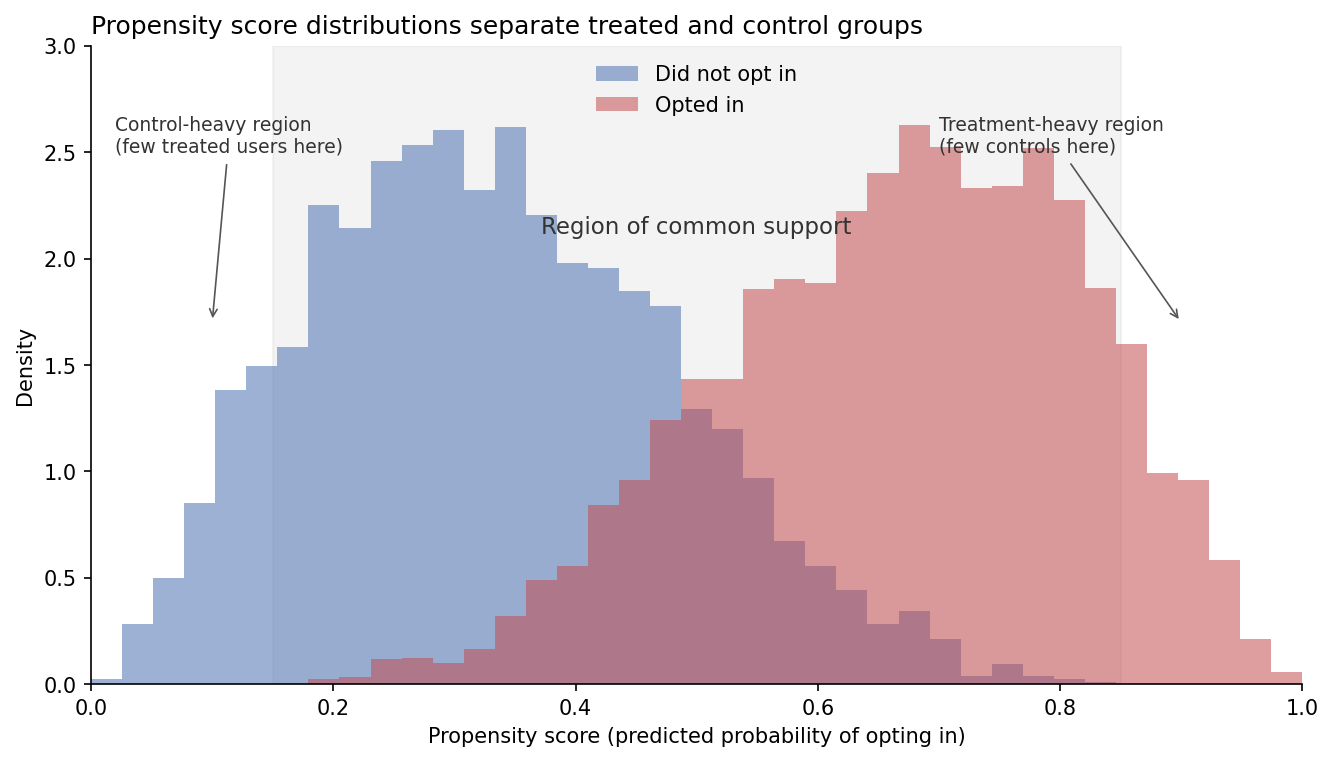
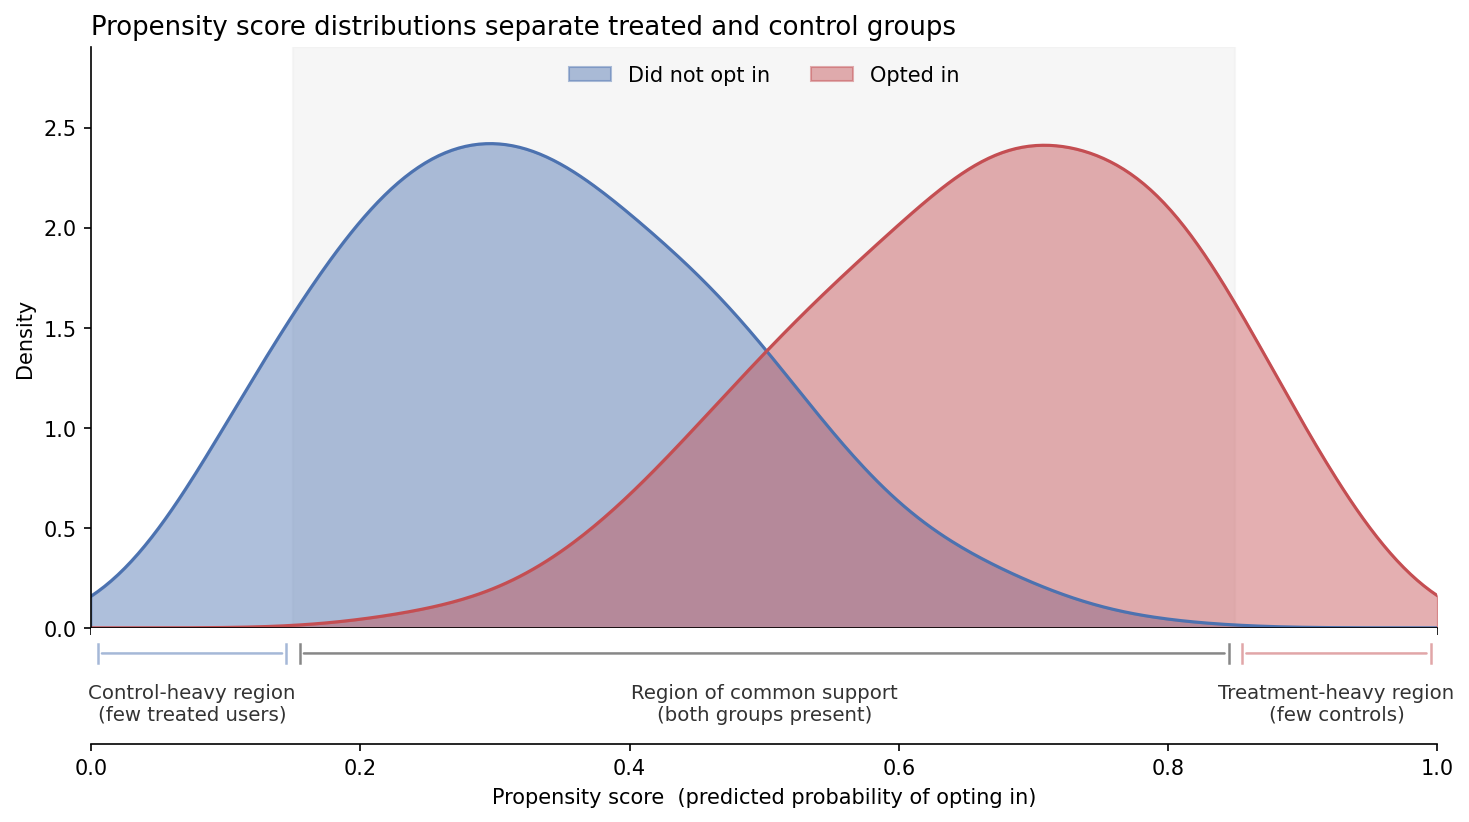
Improve Figure 1: KDE curves + region labels below x-axis
The previous conceptual figure had the 'Region of common support' label,
the two side annotations, and the legend all crammed into the same
upper-middle area, overlapping each other and sitting on top of the
histogram bars. The new version has zero overlap between text and data:

- Smooth KDE curves replace the jagged histogram (matches Figure 2's
  visual language)
- Legend centered at the top in empty sky, not inside the distributions
- Three region labels (control-heavy / common support / treatment-heavy)
  live in a dedicated strip below the x-axis with bracket markers, so
  they never compete with the density curves for space
- Common support shaded band kept, but without any overlapping text

Built by Rudrendu Paul

diff --git a/02_propensity_opt_in/generate_psm_charts.py b/02_propensity_opt_in/generate_psm_charts.py
@@ -24,52 +24,92 @@ IMAGES_DIR = REPO_ROOT / "images" / "article-2"
 
 
 def make_figure_1_conceptual() -> None:
-    """Conceptual: treated skews right, control skews left; overlap shaded."""
+    """Conceptual: treated skews right, control skews left; overlap shaded.
+
+    Two stacked panels with zero overlap between text and plot data:
+      (top)    smooth KDE curves with only a legend in the corner
+      (bottom) a narrow label strip under the x-axis with three region
+               brackets (control-heavy, common support, treatment-heavy)
+    """
+    from scipy.stats import gaussian_kde
+
     rng = np.random.default_rng(7)
     treated = np.clip(rng.beta(6, 3, size=5000), 0.02, 0.98)
     control = np.clip(rng.beta(3, 6, size=5000), 0.02, 0.98)
 
-    fig, ax = plt.subplots(figsize=(9.0, 5.2))
-    bins = np.linspace(0, 1, 40)
+    lo, hi = 0.15, 0.85  # common support region
+    control_color = "#4C72B0"
+    treated_color = "#C44E52"
 
-    ax.hist(
-        control, bins=bins, density=True, alpha=0.55,
-        color="#4C72B0", label="Did not opt in",
-    )
-    ax.hist(
-        treated, bins=bins, density=True, alpha=0.55,
-        color="#C44E52", label="Opted in",
+    fig, (ax_top, ax_bot) = plt.subplots(
+        nrows=2, ncols=1, figsize=(10.0, 5.6),
+        gridspec_kw={"height_ratios": [5.0, 1.0], "hspace": 0.0},
+        sharex=True,
     )
 
-    ax.axvspan(0.15, 0.85, color="#DDDDDD", alpha=0.35, zorder=0)
-    ax.text(
-        0.50, 2.15, "Region of common support",
-        ha="center", va="center", fontsize=11, color="#333333",
-    )
-    ax.annotate(
-        "Control-heavy region\n(few treated users here)",
-        xy=(0.10, 1.7), xytext=(0.02, 2.5),
-        fontsize=9, color="#333333",
-        arrowprops=dict(arrowstyle="->", color="#555555", lw=0.8),
-    )
-    ax.annotate(
-        "Treatment-heavy region\n(few controls here)",
-        xy=(0.90, 1.7), xytext=(0.70, 2.5),
-        fontsize=9, color="#333333",
-        arrowprops=dict(arrowstyle="->", color="#555555", lw=0.8),
-    )
+    # --- TOP: smooth KDE curves ---
+    grid = np.linspace(0, 1, 400)
+    dens_c = gaussian_kde(control, bw_method=0.35)(grid)
+    dens_t = gaussian_kde(treated, bw_method=0.35)(grid)
 
-    ax.set_xlabel("Propensity score (predicted probability of opting in)")
-    ax.set_ylabel("Density")
-    ax.set_title(
+    ax_top.fill_between(grid, dens_c, alpha=0.45, color=control_color,
+                        label="Did not opt in")
+    ax_top.fill_between(grid, dens_t, alpha=0.45, color=treated_color,
+                        label="Opted in")
+    ax_top.plot(grid, dens_c, color=control_color, lw=1.5)
+    ax_top.plot(grid, dens_t, color=treated_color, lw=1.5)
+    ax_top.axvspan(lo, hi, color="#EFEFEF", alpha=0.5, zorder=0)
+
+    y_top = max(dens_c.max(), dens_t.max()) * 1.20
+    ax_top.set_ylim(0, y_top)
+    ax_top.set_xlim(0, 1)
+    ax_top.set_ylabel("Density")
+    ax_top.set_title(
         "Propensity score distributions separate treated and control groups",
-        fontsize=12, loc="left",
+        fontsize=12.5, loc="left",
     )
-    ax.set_xlim(0, 1)
-    ax.set_ylim(0, 3.0)
-    ax.legend(frameon=False, loc="upper center")
-    ax.spines["top"].set_visible(False)
-    ax.spines["right"].set_visible(False)
+    ax_top.legend(frameon=False, loc="upper center", ncol=2,
+                  bbox_to_anchor=(0.5, 1.0), fontsize=10)
+    ax_top.spines["top"].set_visible(False)
+    ax_top.spines["right"].set_visible(False)
+    ax_top.tick_params(labelbottom=False)
+
+    # --- BOTTOM: region label strip ---
+    ax_bot.set_xlim(0, 1)
+    ax_bot.set_ylim(0, 1)
+    ax_bot.set_yticks([])
+    for side in ("top", "left", "right"):
+        ax_bot.spines[side].set_visible(False)
+    ax_bot.spines["bottom"].set_visible(True)
+
+    # Three region brackets with labels beneath
+    regions = [
+        (0.00, lo, "Control-heavy region\n(few treated users)",
+         control_color, 0.5),
+        (lo, hi, "Region of common support\n(both groups present)",
+         "#555555", 0.7),
+        (hi, 1.00, "Treatment-heavy region\n(few controls)",
+         treated_color, 0.5),
+    ]
+    for x0, x1, label, color, alpha in regions:
+        mid = (x0 + x1) / 2
+        # Horizontal bracket line
+        ax_bot.annotate(
+            "", xy=(x0 + 0.005, 0.78), xytext=(x1 - 0.005, 0.78),
+            arrowprops=dict(arrowstyle="-", color=color, lw=1.2,
+                            alpha=alpha),
+        )
+        ax_bot.plot([x0 + 0.005, x0 + 0.005], [0.70, 0.86],
+                    color=color, lw=1.2, alpha=alpha)
+        ax_bot.plot([x1 - 0.005, x1 - 0.005], [0.70, 0.86],
+                    color=color, lw=1.2, alpha=alpha)
+        ax_bot.text(mid, 0.35, label, ha="center", va="center",
+                    fontsize=9.5, color="#333333")
+
+    ax_bot.set_xlabel(
+        "Propensity score  (predicted probability of opting in)",
+        fontsize=10,
+    )
 
     fig.tight_layout()
     save_figure(fig, "psm_overlap_conceptual.png")
